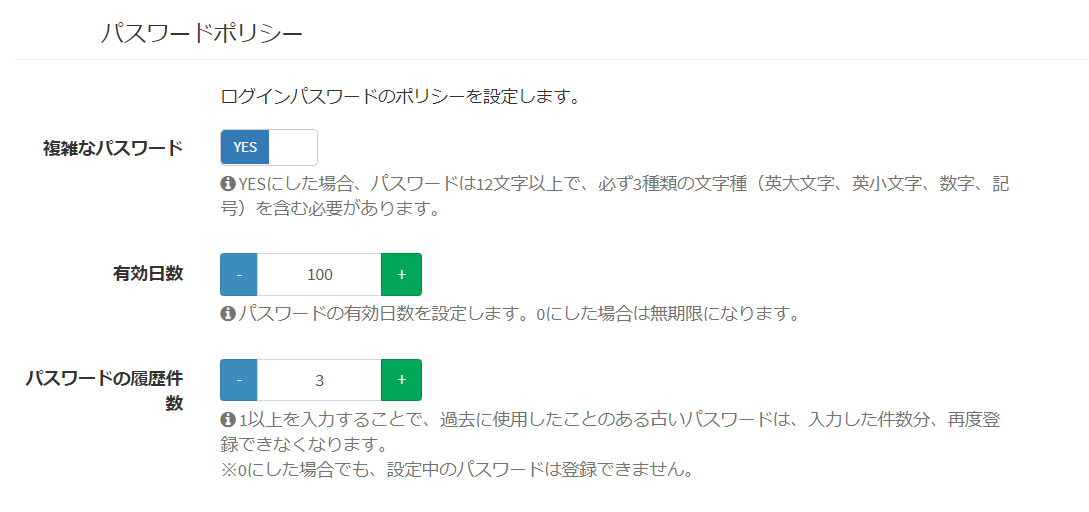
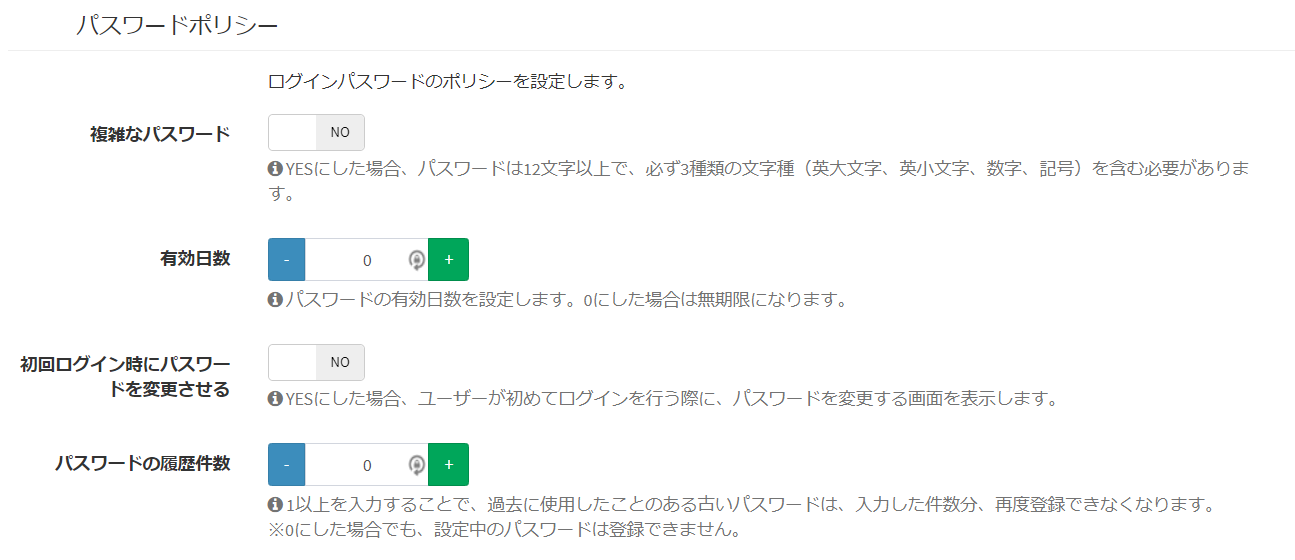
Update login setting

Changed region(s): [[0.0312, 0.125, 0.9679, 0.6562], [0.0, 0.625, 0.9366, 0.9688], [0.0624, 0.0312, 0.281, 0.0938]]

diff --git a/docs/ja/login_setting.md b/docs/ja/login_setting.md
@@ -91,6 +91,12 @@ http(s)://(ExmentのURL)/admin/log_setting
 - 有効日数を「0」にした場合、パスワードは無期限になります。
 - 初期値は「0」です。
 
+#### 初回ログイン時にパスワードを変更させる
+- YESにした場合、ユーザーがはじめてログインを行った際に、パスワードを変更させる画面を表示します。
+- この設定をYESにした後で、新規登録、またはパスワードをリセットしたユーザーに対し、有効になります。
+- この設定をYESにする前に新規登録などを行ったユーザーには、設定が反映されません。
+- 初期値は「NO」です。
+
 #### パスワードの履歴件数
 - 最近使用したパスワードの再利用を制限します。新しいパスワードと直近～履歴件数分のパスワードを比較して同一だった場合はエラーにします。
 - 履歴件数を「0」にした場合は比較対象外です。

diff --git a/docs/ja/user.md b/docs/ja/user.md
@@ -102,6 +102,11 @@ NOの場合、パスワードを入力する為のテキストボックスと「
 この項目がYESの場合、該当するメールアドレスに、パスワードメールが送信されます。  
 **※この機能を実行する場合、[メール設定](/ja/system_setting#システムメール設定)を行う必要があります。**
 
+#### 初回ログイン時にパスワードを変更させる
+YESにした場合、ユーザーがはじめてログインを行った際に、パスワードを変更させる画面を表示します。  
+新規登録、またはパスワードをリセットしたユーザーに対し、有効になります。
+
+
 ### ログイン権限削除
 ログイン権限の削除を行います。  
 一覧画面で、列「ログインユーザー設定」が「YES」のユーザーの、「編集」リンクをクリックしてください。  

diff --git a/docs/ja/release_note.md b/docs/ja/release_note.md
@@ -12,6 +12,7 @@
 1. 機能追加(その他)
     - 通常アカウントで、初回ログイン時、パスワード変更を求める設定の追加
     - ユーザービュー、ユーザーダッシュボードの共有機能の追加
+    - 「システム設定」関係の画面で、ダイアログを表示するボタンを追加
 
 
 
